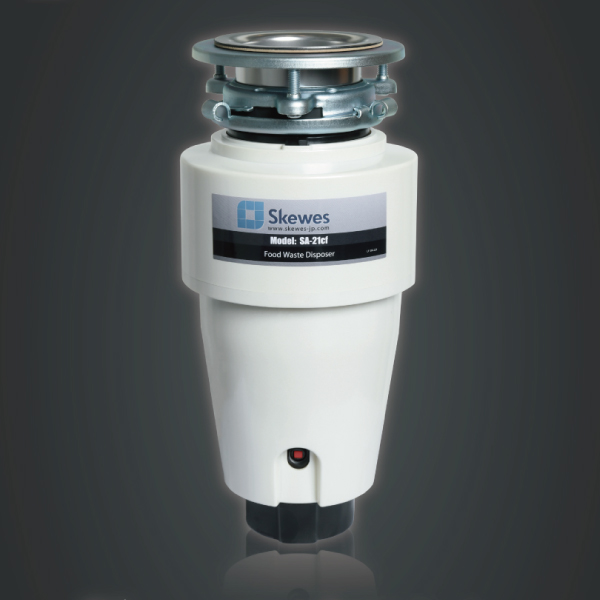
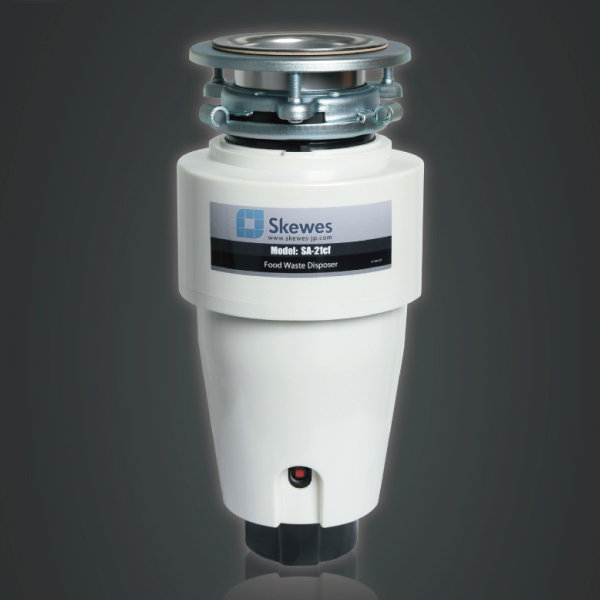
Add files via upload

Changed region(s): [[0.27, 0.03, 0.72, 0.99]]

diff --git a/index.html b/index.html
@@ -9,7 +9,7 @@
     <meta property='og:url' content='https://arisite8.github.io/portfolio/'>
     <meta property='og:description' content='Arisaのポートフォリオサイト'>
     <meta property="og:image" content="img/ogp.png">
-    <meta name="description" content="Arisaのポートフォリオサイト"/>
+    <meta name="description" content="Arisaのポートフォリオサイト" />
     <title>Arisite</title>
     <!-- font -->
     <link rel="preconnect" href="https://fonts.gstatic.com">
@@ -294,6 +294,21 @@
                             </div>
                         </a>
 
+                        <a class="works-item" href="/portfolio/design/disposer_ba_design.html">
+                            <div class="sample1 pc-only">
+                                <div class="works-img"><img src="img/disposer_ba_600.jpg" alt="" /></div>
+                                <div class="mask">
+                                    <p class="works-name-h">Graphic design</p>
+                                    <p class="works-info-h">Graphic design</p>
+                                </div>
+                            </div>
+                            <div class="sp-only">
+                                <div class="works-img"><img src="img/disposer_ba_600.jpg" alt="" /></div>
+                                <p class="works-name">Graphic design</p>
+                                <p class="works-info">Graphic design</p>
+                            </div>
+                        </a>
+
                         <a class="works-item" href="/portfolio/design/character_lp_design.html">
                             <div class="sample1 pc-only">
                                 <div class="works-img"><img src="img/character_lp_600.jpg" alt="" /></div>
@@ -394,7 +409,8 @@
                             <div class="skill-body">
                                 <h3 class="skill-name">Word Press</h3>
                                 <p class="skill-text">
-                                    新規ページ作成。サイト更新作業。</p>
+                                    新規ページ作成。サイト更新作業。
+                                </p>
                             </div>
                         </div>
                         <div class="skill-item">
@@ -402,7 +418,8 @@
                             <div class="skill-body">
                                 <h3 class="skill-name">Photoshop</h3>
                                 <p class="skill-text">
-                                    合成、レタッチなどの画像加工。</p>
+                                    合成、レタッチなどの画像加工。
+                                </p>
                             </div>
                         </div>
                         <div class="skill-item">
@@ -410,7 +427,17 @@
                             <div class="skill-body">
                                 <h3 class="skill-name">Illustrator</h3>
                                 <p class="skill-text">
-                                    パンフレット作成。ロゴ、キャラクター、アイコンなどのイラスト作成。</p>
+                                    パンフレット作成。ロゴ、キャラクター、アイコンなどのイラスト作成。
+                                </p>
+                            </div>
+                        </div>
+                        <div class="skill-item">
+                            <p class="skill-img"><img src="img/premierepro_icon.png" alt="Illustrator"></p>
+                            <div class="skill-body">
+                                <h3 class="skill-name">Premiere Pro</h3>
+                                <p class="skill-text">
+                                    トリミング、合成、音声文字起こし、字幕変換などの動画編集。
+                                </p>
                             </div>
                         </div>
                     </div>
@@ -434,7 +461,7 @@
                             <p>
                                 趣味のお絵描きが功を奏し、学生時代から現在まで様々なグッズデザインを経験。<br>
                                 数々の接客業を経て、独学でWebデザイナーに転職。<br>
-                                現在は、職場内でのデザイン業務をほぼ全て担当しております。
+                                現在は、職場内でのデザイン業務（紙媒体・Web）をほぼ全て担当しております。
                             </p>
                         </div>
                     </div>
